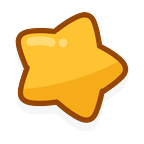
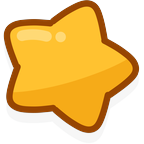
iconos que llenan su caja y punta sin contorno doble
Los iconos se veian chicos y separados porque los PNG traian un 17% de
margen adentro: el dibujo ocupaba el 83% del lienzo cuando en el
prototipo ocupa el 100% de su caja. Ese aire ademas se sumaba al hueco
entre iconos, de ahi que parecieran mas separados de lo que estaban.
Reexportados recortados al dibujo, y --tool-ico pasa a ser --ico
completo. Quedan en 48px = 11,9% del alto, exacto al prototipo.

La punta del lapiz pasa a ser del mismo color que el contorno. Tenia un
tono propio, apenas mas claro que el borde, y con el contorno que
agregamos se leia como un contorno doble: trazo del borde, punta en otro
oscuro, y recien ahi el cuerpo.

diff --git a/tareas/app/minijuegos/a-pintar/motor/motor.css b/tareas/app/minijuegos/a-pintar/motor/motor.css
@@ -143,7 +143,7 @@ body{
    ellos. margin-bottom:auto lo pega arriba y empuja al de reiniciar
    abajo, que ya usa margin-top:auto. */
 .salir-btn{
-  --salir-ico:calc(var(--ico) * 0.92);
+  --salir-ico:var(--ico);
   width:var(--ico); height:var(--ico);
   flex:none;
   display:flex;
@@ -160,7 +160,7 @@ body{
   -webkit-user-drag:none;
   transition:width .14s ease, height .14s ease;
 }
-.salir-btn:hover img{--salir-ico:var(--ico);}
+.salir-btn:hover img{--salir-ico:calc(var(--ico) * 1.06);}
 
 /* El dibujo va HORIZONTAL: el escenario es más ancho que alto, y las
    barras de pinceles/colores quedan a los costados para no robarle
@@ -399,9 +399,14 @@ canvas{
    El PNG trae el dibujo al 83% de su caja, así que a 48px de caja el
    dibujo mide unos 40px — que es lo que se midió en el prototipo. */
 .tool-btn{
-  --tool-ico:calc(var(--ico) * 0.92);
-  --tool-ico-hover:calc(var(--ico) * 0.96);
-  --tool-ico-sel:var(--ico);
+  /* El dibujo llena la caja, como en el prototipo: ahí los iconos miden
+     entre el 100% y el 119% de su caja de 48. Los PNG venían con un 17%
+     de margen adentro, y por eso se veían chicos Y más separados — ese
+     aire se sumaba al hueco entre iconos. Ahora los PNG están recortados
+     al dibujo, así que la caja y el dibujo son lo mismo. */
+  --tool-ico:var(--ico);
+  --tool-ico-hover:calc(var(--ico) * 1.06);
+  --tool-ico-sel:calc(var(--ico) * 1.14);
   width:var(--ico);height:var(--ico);
   border-radius:50%;
   display:flex;

diff --git a/tareas/app/minijuegos/a-pintar/motor/motor.js b/tareas/app/minijuegos/a-pintar/motor/motor.js
@@ -142,7 +142,14 @@
       // lo que faltaba para blanco, y con colores pastel eso son 5
       // puntos: el lápiz quedaba plano, sin volumen.
       brillo: l <= 85 ? hslAHex(h, s, Math.min(97, l + 10)) : hslAHex(h, s, l - 8),
-      punta:  hslAHex(h, Math.max(0, s - 16), Math.min(l * 0.906, l - 4)),
+      // La punta va del MISMO color que el contorno. Cuando tenía un tono
+      // propio —apenas más claro que el borde— se leía como un contorno
+      // doble: el trazo del borde, después la punta en otro oscuro, y
+      // recién ahí el cuerpo. Del mismo color queda una sola forma
+      // oscura, con el brillito interno encima, como en el diseño.
+      punta:  l > 20
+        ? hslAHex(h, Math.min(100, s * 1.05), Math.max(0, Math.min(l * 0.62, l - 10)))
+        : hslAHex(h, Math.min(100, s * 1.05), l + 12),
       // Contorno: el lápiz del selector viene plano en el archivo de
       // diseño, pero en el prototipo los de la paleta llevan borde. Se
       // deriva del propio color, como en los lápices decorativos del
